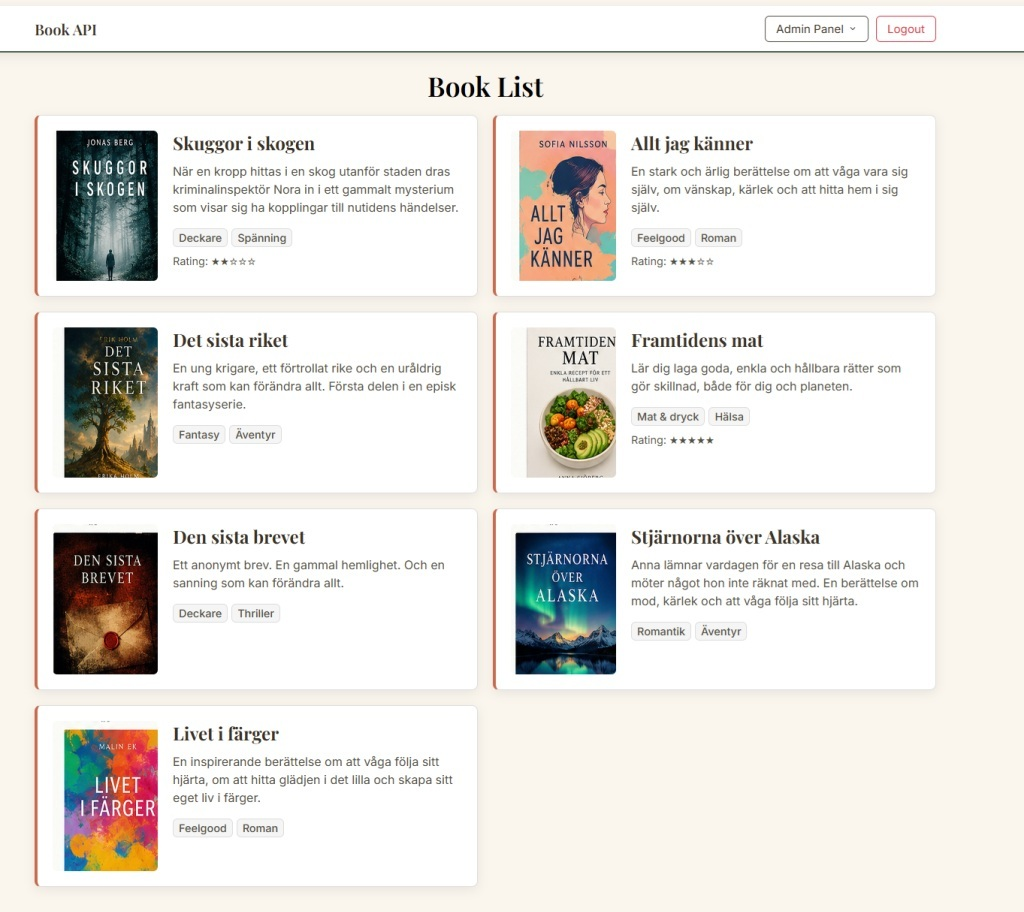
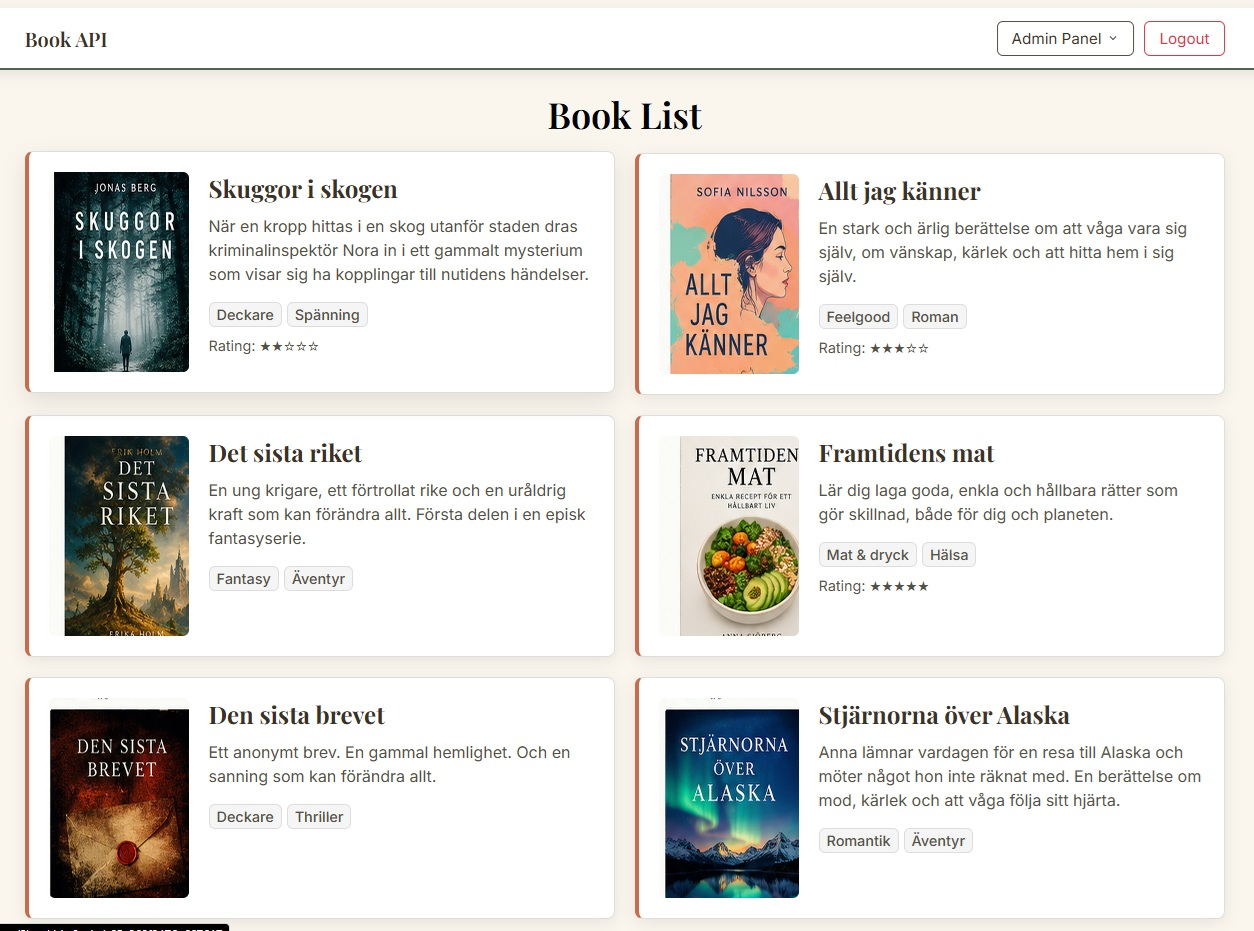
(Tablet)-Lots of style adaptations

Changed region(s): [[0.0, 0.0, 1.0, 1.0], [0.7812, 0.307, 0.9062, 0.3377]]

diff --git a/src/components/Projects/ProjectCard.tsx b/src/components/Projects/ProjectCard.tsx
@@ -75,11 +75,11 @@ const [xOffset, setXOffset] = useState(0);
       },
       }}
       className={`relative list-none w-full justify-self-center shadow-highlight shadow-2xl flex flex-col gap-2 pt-6 pb-4 pl-7 pr-8 bg-dark rounded-lg shadow-md ${
-      isExpanded ? "max-w-[285px] mb-40 mt-6 lg:max-w-3xl max-h-[1200px] min-h-[200px] lg:min-h-[900px]" : "max-w-lg min-h-[470px] lg:min-h-[670px]"
+      isExpanded ? "max-w-[285px] sm:max-w-md mb-40 mt-6 lg:max-w-3xl max-h-[1200px] min-h-[200px] sm:min-h-[600px] lg:min-h-[900px]" : "max-w-lg min-h-[470px] sm:min-h-[500px] lg:min-h-[670px]"
       }`}
       >
       <div className="w-full flex gap-1 items-start">
-      <img src={project.image} alt={project.title} className="h-64 lg:h-94 w-full rounded-lg border border-primary object-cover drop-shadow-md drop-shadow-primary" />
+      <img src={project.image} alt={project.title} className="h-64 sm:h-84 lg:h-94 w-full rounded-lg border border-primary object-cover drop-shadow-md drop-shadow-primary" />
       <button
       type="button"
       onClick={() => {
@@ -116,18 +116,18 @@ const [xOffset, setXOffset] = useState(0);
       </motion.div>
       )}
       </AnimatePresence>
-      <div className="mx-auto flex flex-row gap-2 max-w-xs flex-wrap justify-center">
+      <div className="mx-auto sm:mt-2 flex flex-row gap-2 max-w-xs flex-wrap justify-center">
         {project.tags.map(tag => (
           <CatBubble key={tag} name={tag} />
         ))}
       </div>
-      <div className="flex flex-row justify-center gap-1 lg:gap-6">
+      <div className="flex flex-row justify-center gap-1 mt-4 mb-4 lg:gap-6">
       <a href={project.repoUrl} target="_blank" aria-label="Link to GitHub repository" rel="noopener noreferrer" className="text-closeWhite text-shadow-md text-shadow-black flex flex-row gap-1 decoration-1 underline-offset-4 hover:underline">
       <Icon type="github" className="size-4 relative top-1 lg:size-6 lg:top-0" />  GitHub Repo
       </a>
       {project.liveUrl && (
         <a href={project.liveUrl} target="_blank" aria-label="Link to live site" rel="noopener noreferrer" className="text-base text-closeWhite text-shadow-md text-shadow-black ml-4 flex flex-row gap-1 decoration-1 underline-offset-4 hover:underline">
-         <Icon type="www" className="size-5 relative top-1 lg:size-6 lg:top-0" /> Live Site
+         <Icon type="www" className="size-5 relative top-0.5 left-0.5 lg:size-6 lg:top-0" /> Live Site
         </a>)}  
       </div>
     </motion.li>

diff --git a/src/components/Hero/Hero.tsx b/src/components/Hero/Hero.tsx
@@ -3,16 +3,18 @@ import Decoration from "../Decoration"
 
 function Hero() {
   return (
-    <section className="scroll-mt-24 mx-auto grid w-full max-w-[88rem] grid-cols-1 items-stretch gap-8 px-4 mt-3 lg:mt-10 py-16 sm:px-6 lg:grid-cols-2 lg:gap-12 lg:py-20" id="home">
+    <section className="scroll-mt-24 mx-auto grid w-full max-w-[88rem] md:max-w-none grid-cols-1 items-stretch gap-8 px-4 mt-3 lg:mt-10 py-16 sm:px-6 lg:grid-cols-2 lg:gap-12 lg:py-20" id="home">
       <div className="w-full min-w-0 order-last lg:order-none lg:mt-0">
-        <p className="text-[1rem] md:text-base font-semibold text-primary tracking-wide">FRONTEND UTVECKLARE I UPPSALA</p>
-        <h1 className="text-[2.9rem] sm:text-6xl lg:text-8xl font-extrabold text-light tracking-tight text-shadow-xs text-shadow-black">Hej, jag är <span className="text-primary text-shadow-md text-shadow-dark">Emil.</span></h1>
-        <h2 className="mt-0 md:mt-3 text-xl md:text-2xl font-semibold text-primary">Frontend Developer</h2>
-        <p className="mt-1 md:mt-4 max-w-xl text-base leading-7 sm:text-lg sm:leading-8 text-primary">Jag studerar till frontendutvecklare och gillar att skapa snabba, tillgängliga och genomtänkta upplevelser för webben</p>
+        <p className="text-[1rem] sm:text-xl md:text-base font-semibold text-primary tracking-wide">FRONTEND UTVECKLARE I UPPSALA</p>
+        <h1 className="text-[2.9rem] sm:text-7xl lg:text-8xl font-extrabold text-light tracking-tight text-shadow-xs text-shadow-black">Hej, jag är <span className="text-primary text-shadow-md text-shadow-dark">Emil.</span></h1>
+        <h2 className="mt-0 sm:mt-4 md:mt-3 text-xl sm:text-3xl md:text-2xl font-semibold text-primary">Frontend Developer</h2>
+        <p className="mt-1 md:mt-4 max-w-xl text-base leading-7 sm:text-xl sm:leading-8 text-primary">Jag studerar till frontendutvecklare och gillar att skapa snabba, tillgängliga och genomtänkta upplevelser för webben</p>
         <a href="#projects" className="mt-4 inline-block rounded-4xl bg-primary px-4 py-2 text-white text-shadow-xs text-shadow-black hover:bg-light">Se mina projekt</a>
         <Decoration type="bigthing" className="pt-8 sm:pt-20 w-full max-w-[620px] h-auto text-primary drop-shadow-md drop-shadow-highlight" />
       </div>
+      <div className="xs: mx-auto">
         <Devcard />
+        </div>
       </section>
   )
 }

diff --git a/src/components/SocialLinks.tsx b/src/components/SocialLinks.tsx
@@ -12,13 +12,13 @@ const locationClass = location === "contact" ? "text-primary decoration-1 underl
   return (
     type === "email" ? (
     // Email icon
-    <a href="mailto:elychnell@gmail.com" aria-label="Link to email" className={`${locationClass} flex items-center gap-2 hover:underline text-sm lg:text-base`}><Icon type="email" className="size-4 lg:size-6" /> elychnell@gmail.com</a>
+    <a href="mailto:elychnell@gmail.com" aria-label="Link to email" className={`${locationClass} flex items-center gap-1 hover:underline text-sm sm:text-base lg:text-base`}><Icon type="email" className="size-4 sm:size-5 lg:size-6" /> elychnell@gmail.com</a>
     ) : type === "github" ? (
     // GitHub icon
-    <a href="https://github.com/elychnell" aria-label="Link to GitHub" className={`${locationClass} flex items-center gap-2 hover:underline text-sm lg:text-base`}><Icon type="github" className="size-4  lg:size-6" /> GitHub</a>
+    <a href="https://github.com/elychnell" aria-label="Link to GitHub" className={`${locationClass} flex items-center gap-1 hover:underline text-sm sm:text-base lg:text-base`}><Icon type="github" className="size-4 sm:size-5 lg:size-6" /> GitHub</a>
    ) : type === "linkedin" ? (
     // LinkedIn link
-   <a href="https://www.linkedin.com/in/emil-lychnell-02b805335" aria-label="Link to LinkedIn" className={`${locationClass} flex items-center gap-2 hover:underline text-sm lg:text-base`}><Icon type="linkedin" className="size-4  lg:size-6" /> LinkedIn</a>
+   <a href="https://www.linkedin.com/in/emil-lychnell-02b805335" aria-label="Link to LinkedIn" className={`${locationClass} flex items-center gap-1 hover:underline text-sm sm:text-base lg:text-base`}><Icon type="linkedin" className="size-4 sm:size-5 lg:size-6" /> LinkedIn</a>
 ) : null
   )
 }

diff --git a/src/components/Projects/Projects.tsx b/src/components/Projects/Projects.tsx
@@ -37,10 +37,10 @@ const handleTagClick = (tag: string) => {
     <section className="scroll-mt-16 bg-light text-dark py-14 px-4 flex flex-col items-center justify-center w-full" id="projects">
       <div className="flex flex-col gap-4 md:flex-row md:gap-8 lg:gap-[20em] items-between justify-center mb-4 flex-wrap">
         <div>
-        <p className="text-base font-semibold text-black tracking-wide text-shadow-xs text-shadow-highlight">02 / UTVALDA ARBETEN</p>
-        <h2 className="text-6xl font-extrabold text-black text-shadow-md text-shadow-highlight">Mina projekt</h2>
+        <p className="text-base sm:text-lg font-semibold text-black tracking-wide text-shadow-xs text-shadow-highlight">02 / UTVALDA ARBETEN</p>
+        <h2 className="text-6xl sm:text-7xl md:text-8xl font-extrabold text-black text-shadow-md text-shadow-highlight">Mina projekt</h2>
         </div>
-        <p className="text-black max-w-[24em] text-2xl mt-9 text-shadow-xs text-shadow-highlight">Ett urval av projekt från min utbildning och egen tid — från små gränssnitt till fullstack-applikationer.</p>
+        <p className="text-black max-w-[24em] text-2xl mt-3 lg:mt-9 text-shadow-xs text-shadow-highlight">Ett urval av projekt från min utbildning och egen tid — från små gränssnitt till fullstack-applikationer.</p>
       </div>
       <Decoration type="heart" className="relative top-3 mx-auto w-full max-w-[480px] h-auto text-black drop-shadow-md drop-shadow-highlight" />
       {selectedProjectId === null ? (<ProjectFilter handleTagClick={handleTagClick} handleClear={handleClear} selectedTags={selectedTags} />) : (<div className="h-6 my-4" aria-hidden="true" />)}

diff --git a/src/components/About/About.tsx b/src/components/About/About.tsx
@@ -6,13 +6,13 @@ function About() {
       className="scroll-mt-16 py-16 md:py-32 lg:py-36 bg-highlight"
       id="about"
     >
-      <div className="mx-auto flex max-w-6xl flex-col gap-12 px-6 md:flex-row md:items-center md:gap-16 lg:gap-20">
+      <div className="mx-auto flex max-w-6xl flex-col gap-4 sm:gap-8 lg:gap-12 px-6 md:flex-row md:items-center md:gap-16 lg:gap-20">
         <div className="md:flex-1">
-          <p className="mb-2 md:mb-4 text-base font-semibold tracking-wide text-primary">
+          <p className="text-base mb-1 sm:text-lg md:mb-4 font-semibold tracking-wide text-primary">
             01 / OM MIG
           </p>
 
-          <h2 className="md:mb-4 max-w-md text-4xl font-extrabold leading-tight text-blacknpm  md:text-6xl">
+          <h2 className="md:mb-4 max-w-md text-4xl sm:text-[2.8rem] font-extrabold leading-tight text-blacknpm  md:text-6xl">
             Nyfiken på hur bra idéer blir bra webb.
           </h2>
         </div>
@@ -30,7 +30,7 @@ function About() {
             gör en produkt enklare att använda.
           </p>
 
-          <div className="flex flex-wrap gap-2">
+          <div className="flex flex-wrap gap-2 xs:mx-auto sm:mx-auto sm:max-w-md lg:max-w-lg">
             <CatBubble name="HTML" className="shadow-md shadow-primary border-[#151824]/12 bg-white" />
             <CatBubble name="CSS" className="shadow-md shadow-primary border-[#151824]/12 bg-white" />
             <CatBubble name="JavaScript" className="shadow-md shadow-primary border-[#151824]/12 bg-white" />

diff --git a/src/components/Contact/Contact.tsx b/src/components/Contact/Contact.tsx
@@ -7,9 +7,9 @@ function Contact() {
     <section className="scroll-mt-14 bg-highlight w-full min-h-[60vh]" id="contact">
       <div className="mx-auto flex max-w-[92rem] flex-col items-start gap-8 px-4 py-16 sm:px-6 md:flex-row lg:px-8 lg:py-24">
       <div className="flex-shrink-0">
-      <p className="text-base font-semibold text-primary tracking-wide">03 / KONTAKT</p>
-      <h2 className="sm:text-5xl text-4xl font-semibold leading-tight">Har du en idé?<br />Hör av dig.</h2>
-      <p className="mt-4 text-base max-w-md leading-7 sm:text-xl sm:leading-8 text-primary">
+      <p className="text-base sm:text-lg font-semibold text-primary tracking-wide">03 / KONTAKT</p>
+      <h2 className="text-4xl sm:text-6xl font-semibold leading-tight">Har du en idé?<br />Hör av dig.</h2>
+      <p className="mt-4 text-base sm:text-xl max-w-md leading-7 sm:leading-8 text-primary">
         Jag är alltid öppen för nya kontakter, samarbeten och möjligheter att lära mig mer.
       </p>
       <div className="mt-4">
@@ -19,7 +19,9 @@ function Contact() {
       </div>
       </div>
       <Decoration type="arrow" className="mx-auto w-full max-w-[230px] md:max-w-[400px] h-auto text-primary rotate-90 px-4 md:rotate-0 pt-10 pb-10 md:pt-25" />
+      <div className="mx-auto min-w-[320px] sm:min-w-[440px] md:mx-0 lg:mx-0">
       <ContactForm />
+      </div>
       </div>
     </section>
   )

diff --git a/src/components/Footer/Footer.tsx b/src/components/Footer/Footer.tsx
@@ -3,9 +3,9 @@ import SocialLinks from '../SocialLinks'
 function Footer() {
   return (
     <footer className="flex flex-col items-center gap-3 bg-dark p-4 text-white sm:flex-row sm:justify-between">
-    <p className="hidden text-sm font-semibold sm:block">© 2026 Emil Lychnell. Byggd med React.</p>
+    <p className="hidden text-base font-semibold md:block">© 2026 Emil Lychnell. Byggd med React.</p>
 
-    <div className="flex flex-row gap-4">
+    <div className="mx-auto md:mx-0 flex flex-row gap-4">
     <SocialLinks type="email" location="footer" />
     <SocialLinks type="github" location="footer" />
     <SocialLinks type="linkedin" location="footer" />

diff --git a/src/components/Ghost/Ghost.module.css b/src/components/Ghost/Ghost.module.css
@@ -106,7 +106,7 @@ height: 150px;
 }
 
 .ghostContent {
-width: 250px;
+width: 300px;
 height: 150px;
 }
 
@@ -117,17 +117,17 @@ height: 93.75px;
 
 .line1 {
 top: 5px;
-font-size: 1.5rem;
+font-size: 1.55rem;
 }
 
 .line2 {
 left: 2px;
-font-size: 1.25rem;
+font-size: 1.35rem;
 }
 
 .date {
-left: 6px;
-font-size: 1rem;
+left: 5px;
+font-size: 1.1rem;
 }
 }
 
